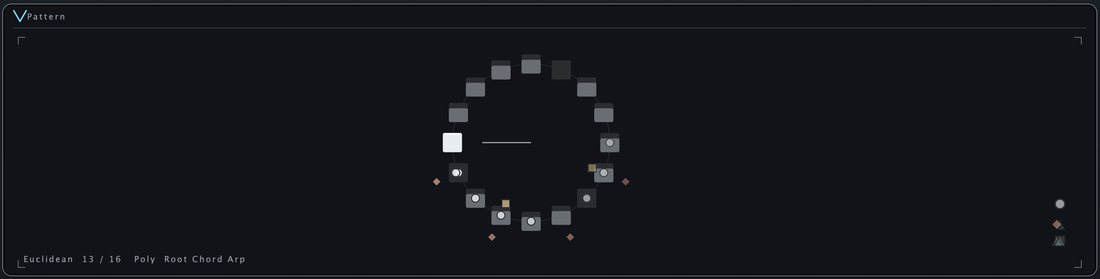
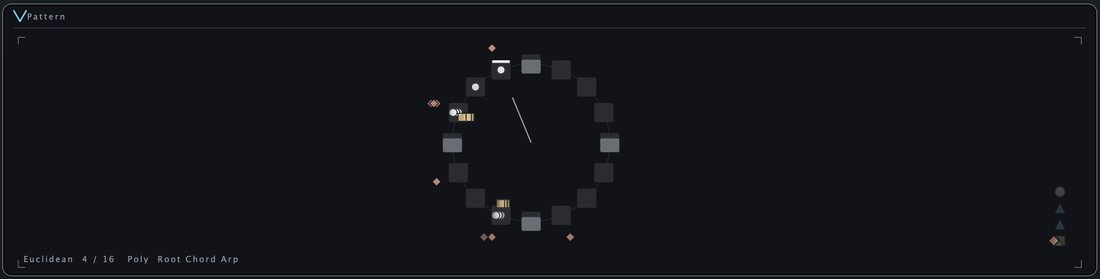
docs(site): address review findings on the generator gallery (#17)
* docs(site): address review findings on the generator gallery

- Euclidean recaptured at 4 of 16 pulses so even spacing is visible
- Lorenz caption now describes the cluster the image shows
- Store the ten full-window captures under docs/qa/logs/generators_20261009
  and cite them; caption names the build (UTF-8 label fix, #15)
- Equal-height gallery cards

* docs(site): link each gallery thumbnail to its full-window capture

---------

diff --git a/docs/index.html b/docs/index.html
@@ -118,73 +118,73 @@
         <p class="section__lead"><strong class="plain">The path a note takes: from your music app, through the plugin, to an instrument.</strong> <span class="tech">What exists now: <a class="term" href="#g-daw">host</a> → format wrapper → processor/params → engines → MIDI out.</span></p>
         <figure class="diagram diagram--shot">
           <img src="assets/standalone-screenshot.jpg" width="1600" height="983" alt="Screenshot of the Generative MIDI Standalone app in a dark steel and cyan theme. The Pattern panel shows a live Drunk Walk melody as a stepped pitch line with extra root, chord and arp parts as markers. Below are Performance knobs, Musical controls (velocity and pitch ranges, scale, mono or poly voice, swing, timing, gate), a Shape panel with expression and ratchet controls, and an LFO and modulation row. A Piano button and a Parts menu sit in the top bar.">
-          <figcaption><strong class="plain">This is the real app.</strong> Screenshot of the Standalone app, captured 9 Oct 2026 from a local Release build. Drunk Walk is playing with 4 parts and the piano on. The interface may change in later commits.</figcaption>
+          <figcaption><strong class="plain">This is the real app.</strong> Screenshot of the Standalone app, captured 9 Oct 2026 from a local Release build that includes the UTF-8 label fix (PR #15). Drunk Walk is playing with 4 parts and the piano on. The interface may change in later commits.</figcaption>
         </figure>
         <h3 class="gallery-title" id="gallery-title">What the ten generators draw</h3>
         <p class="plain">Each generator shows its own picture of the music it is making.</p>
         <ul class="gallery" aria-labelledby="gallery-title">
           <li>
             <figure>
-              <img src="assets/pattern-euclidean.jpg" width="1100" height="279" alt="Euclidean pattern display: a ring of 16 steps with 13 lit." loading="lazy">
-              <figcaption><strong>Euclidean.</strong> Hits spaced evenly around a ring (here 13 of 16 steps).</figcaption>
+              <img src="assets/pattern-euclidean.jpg" width="1100" height="279" alt="Euclidean pattern display: a ring of 16 steps with 4 evenly spaced steps lit." loading="lazy">
+              <figcaption><strong>Euclidean.</strong> Hits spaced evenly around a ring (here 4 of 16 steps). <a href="qa/logs/generators_20261009/euclidean.jpg">Full window<span class="visually-hidden"> capture: Euclidean</span></a></figcaption>
             </figure>
           </li>
           <li>
             <figure>
               <img src="assets/pattern-polyrhythm.jpg" width="1100" height="279" alt="Polyrhythm layer editor with one layer: a 16-step row with several steps lit, and sliders for division, length, pitch and velocity." loading="lazy">
-              <figcaption><strong>Polyrhythm (experimental).</strong> Rhythm layers with their own length and speed; one layer is shown here.</figcaption>
+              <figcaption><strong>Polyrhythm (experimental).</strong> Rhythm layers with their own length and speed; one layer is shown here. <a href="qa/logs/generators_20261009/polyrhythm.jpg">Full window<span class="visually-hidden"> capture: Polyrhythm</span></a></figcaption>
             </figure>
           </li>
           <li>
             <figure>
               <img src="assets/pattern-markov.jpg" width="1100" height="279" alt="Markov pattern display: a line of notes that wanders up and down, with small part markers beside it." loading="lazy">
-              <figcaption><strong>Markov.</strong> A winding row of notes, each picked based on the notes before it.</figcaption>
+              <figcaption><strong>Markov.</strong> A winding row of notes, each picked based on the notes before it. <a href="qa/logs/generators_20261009/markov.jpg">Full window<span class="visually-hidden"> capture: Markov</span></a></figcaption>
             </figure>
           </li>
           <li>
             <figure>
               <img src="assets/pattern-lsystem.jpg" width="1100" height="279" alt="L-System pattern display: five rows of A and B tiles stacked in a staircase, with the bottom row holding the notes and one tile lit." loading="lazy">
-              <figcaption><strong>L-System.</strong> Rows of A and B tiles grow by rewrite rules, one new row per generation; the bottom row holds the notes.</figcaption>
+              <figcaption><strong>L-System.</strong> Rows of A and B tiles grow by rewrite rules, one new row per generation; the bottom row holds the notes. <a href="qa/logs/generators_20261009/lsystem.jpg">Full window<span class="visually-hidden"> capture: L-System</span></a></figcaption>
             </figure>
           </li>
           <li>
             <figure>
               <img src="assets/pattern-cellular.jpg" width="1100" height="279" alt="Cellular pattern display: a wide grid of dark and lit cells with note markers over it." loading="lazy">
-              <figcaption><strong>Cellular.</strong> A grid of on/off cells that updates by simple rules; lit cells become notes.</figcaption>
+              <figcaption><strong>Cellular.</strong> A grid of on/off cells that updates by simple rules; lit cells become notes. <a href="qa/logs/generators_20261009/cellular.jpg">Full window<span class="visually-hidden"> capture: Cellular</span></a></figcaption>
             </figure>
           </li>
           <li>
             <figure>
               <img src="assets/pattern-probabilistic.jpg" width="1100" height="279" alt="Probabilistic pattern display: a mostly flat row of note markers with a highlighted last note." loading="lazy">
-              <figcaption><strong>Probabilistic.</strong> Notes land by chance; the density knob sets how often.</figcaption>
+              <figcaption><strong>Probabilistic.</strong> Notes land by chance; the density knob sets how often. <a href="qa/logs/generators_20261009/probabilistic.jpg">Full window<span class="visually-hidden"> capture: Probabilistic</span></a></figcaption>
             </figure>
           </li>
           <li>
             <figure>
               <img src="assets/pattern-brownian.jpg" width="1100" height="279" alt="Brownian pattern display: a pitch line drifting up and down in small steps, with note markers." loading="lazy">
-              <figcaption><strong>Brownian.</strong> A pitch line that drifts in small random steps.</figcaption>
+              <figcaption><strong>Brownian.</strong> A pitch line that drifts in small random steps. <a href="qa/logs/generators_20261009/brownian.jpg">Full window<span class="visually-hidden"> capture: Brownian</span></a></figcaption>
             </figure>
           </li>
           <li>
             <figure>
               <img src="assets/pattern-perlin.jpg" width="1100" height="279" alt="Perlin noise pattern display: a smooth, gently curving pitch line with note markers." loading="lazy">
-              <figcaption><strong>Perlin Noise.</strong> Smooth, flowing pitch changes that never quite repeat.</figcaption>
+              <figcaption><strong>Perlin Noise.</strong> Smooth, flowing pitch changes that never quite repeat. <a href="qa/logs/generators_20261009/perlin.jpg">Full window<span class="visually-hidden"> capture: Perlin Noise</span></a></figcaption>
             </figure>
           </li>
           <li>
             <figure>
               <img src="assets/pattern-drunk-walk.jpg" width="1100" height="279" alt="Drunk Walk pattern display: a stepped pitch line rising and falling, with note markers." loading="lazy">
-              <figcaption><strong>Drunk Walk.</strong> Pitch stumbles up and down one step at a time.</figcaption>
+              <figcaption><strong>Drunk Walk.</strong> Pitch stumbles up and down one step at a time. <a href="qa/logs/generators_20261009/drunk-walk.jpg">Full window<span class="visually-hidden"> capture: Drunk Walk</span></a></figcaption>
             </figure>
           </li>
           <li>
             <figure>
               <img src="assets/pattern-lorenz.jpg" width="1100" height="279" alt="Lorenz pattern display: a small cluster of note markers near the centre of the panel." loading="lazy">
-              <figcaption><strong>Lorenz.</strong> A path traced by chaotic equations, shown as a tight cluster of note markers here.</figcaption>
+              <figcaption><strong>Lorenz.</strong> Notes follow a chaotic system; here the markers have gathered in a tight cluster near the centre. <a href="qa/logs/generators_20261009/lorenz.jpg">Full window<span class="visually-hidden"> capture: Lorenz</span></a></figcaption>
             </figure>
           </li>
         </ul>
-        <p class="tech">Pattern panels cropped from real Standalone captures taken 9 Oct 2026 from a local Release build, with Parts set to 4, so root, chord and arp markers also appear. Captures are a single moment of a free-running pattern.</p>
+        <p class="tech">Pattern panels cropped from real Standalone captures taken 9 Oct 2026 from a local Release build, with Parts set to 4, so root, chord and arp markers also appear. Each is a single moment of a free-running pattern. Full-window originals: <code>docs/qa/logs/generators_20261009/</code>.</p>
         <figure class="diagram">
           <picture>
             <source media="(max-width: 720px)" srcset="assets/signal-path-narrow.svg" width="320" height="480">

diff --git a/docs/engineering.html b/docs/engineering.html
@@ -77,7 +77,7 @@
         </ul>
         <figure class="diagram diagram--shot">
           <img src="assets/standalone-screenshot.jpg" width="1600" height="983" alt="Screenshot of the Generative MIDI Standalone app in a dark steel and cyan theme. The Pattern panel shows a live Drunk Walk melody as a stepped pitch line with extra root, chord and arp parts as markers. Below are Performance knobs, Musical controls (velocity and pitch ranges, scale, mono or poly voice, swing, timing, gate), a Shape panel with expression and ratchet controls, and an LFO and modulation row. A Piano button and a Parts menu sit in the top bar.">
-          <figcaption><strong class="plain">This is the real app.</strong> Screenshot of the Standalone app, captured 9 Oct 2026 from a local Release build. Drunk Walk is playing with 4 parts and the piano on. The interface may change in later commits.</figcaption>
+          <figcaption><strong class="plain">This is the real app.</strong> Screenshot of the Standalone app, captured 9 Oct 2026 from a local Release build that includes the UTF-8 label fix (PR #15). Drunk Walk is playing with 4 parts and the piano on. The interface may change in later commits.</figcaption>
         </figure>
         <figure class="diagram">
           <picture>

diff --git a/docs/assets/site.css b/docs/assets/site.css
@@ -1021,3 +1021,11 @@ details > :not(summary),
   font-weight: 600;
   margin-bottom: 0.25rem;
 }
+
+.gallery li {
+  display: flex;
+}
+
+.gallery figure {
+  width: 100%;
+}

diff --git a/docs/qa/logs/generators_20261009/README.md b/docs/qa/logs/generators_20261009/README.md
@@ -1,0 +1,6 @@
+# Standalone captures, 2026-10-09
+
+One full-window capture per generator, taken from a local Release build with the UTF-8 label fix (PR #15),
+Parts set to 4, free-running Standalone app. Euclidean was captured with Pulses set to 4; every other
+setting is at its default. Downscaled to 1600 px wide. The site gallery crops the Pattern panel from these
+(`docs/assets/pattern-*.jpg`).
